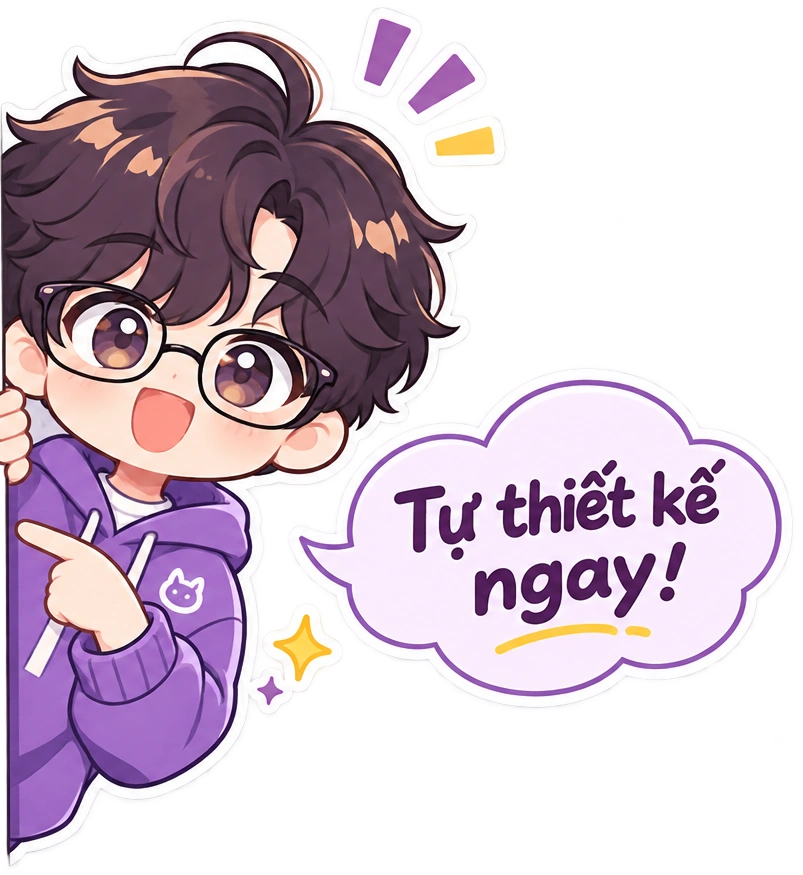
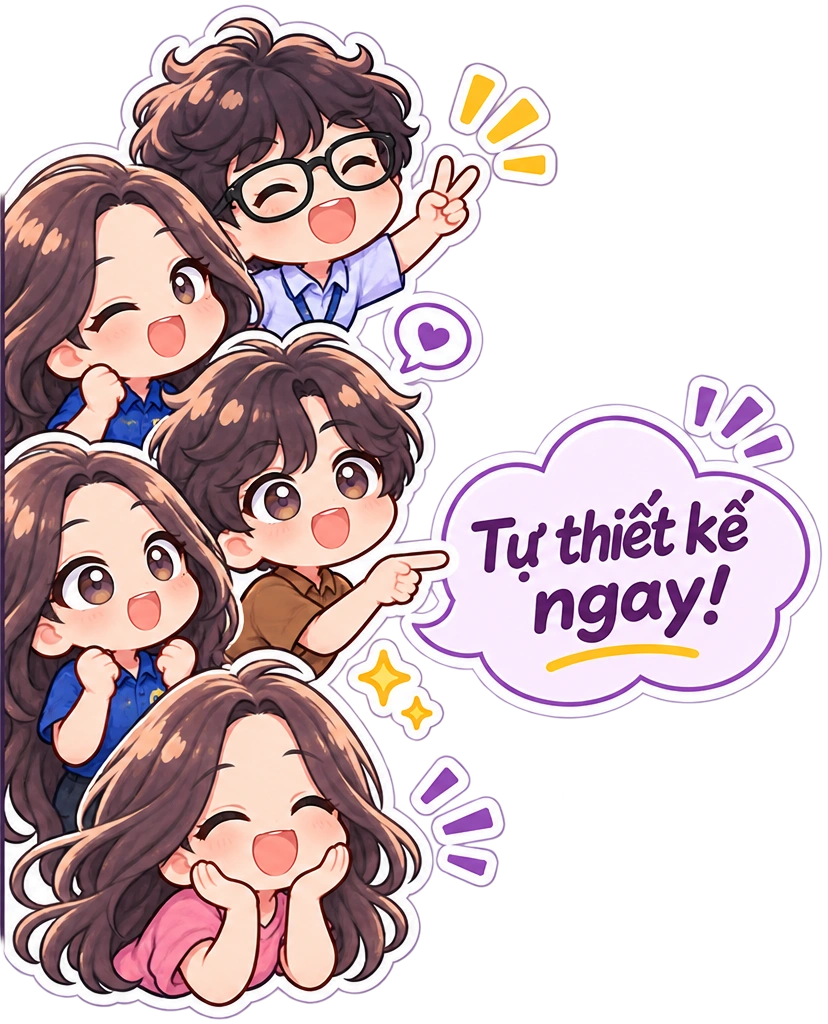
feat(design-studio): update chibi peeker asset with 5-member The Creators chibi squad

diff --git a/src/app/features/design-studio/components/template-browser/template-browser.html b/src/app/features/design-studio/components/template-browser/template-browser.html
@@ -498,8 +498,8 @@
           <!-- Chibi Peeker Animation (Chỉ xuất hiện khi hover vào card Ốp Lưng Trắng Tiêu Chuẩn) -->
           @if (tpl.id === 'tpl-blank') {
             <div
-              class="chibi-peeker pointer-events-none absolute top-1 left-full z-0 w-36 sm:w-40 select-none transition-all duration-400 ease-out transform -translate-x-full scale-90 opacity-0 group-hover:-translate-x-3 group-hover:-translate-y-3 group-hover:scale-100 group-hover:opacity-100 motion-reduce:transition-none"
-              style="filter: drop-shadow(0 10px 22px rgba(67, 48, 117, 0.26));"
+              class="chibi-peeker pointer-events-none absolute top-3 left-full z-0 w-44 sm:w-48 select-none transition-all duration-400 ease-out transform -translate-x-full scale-90 opacity-0 group-hover:-translate-x-2 group-hover:scale-100 group-hover:opacity-100 motion-reduce:transition-none"
+              style="filter: drop-shadow(0 12px 26px rgba(67, 48, 117, 0.28));"
               aria-hidden="true"
             >
               <img
